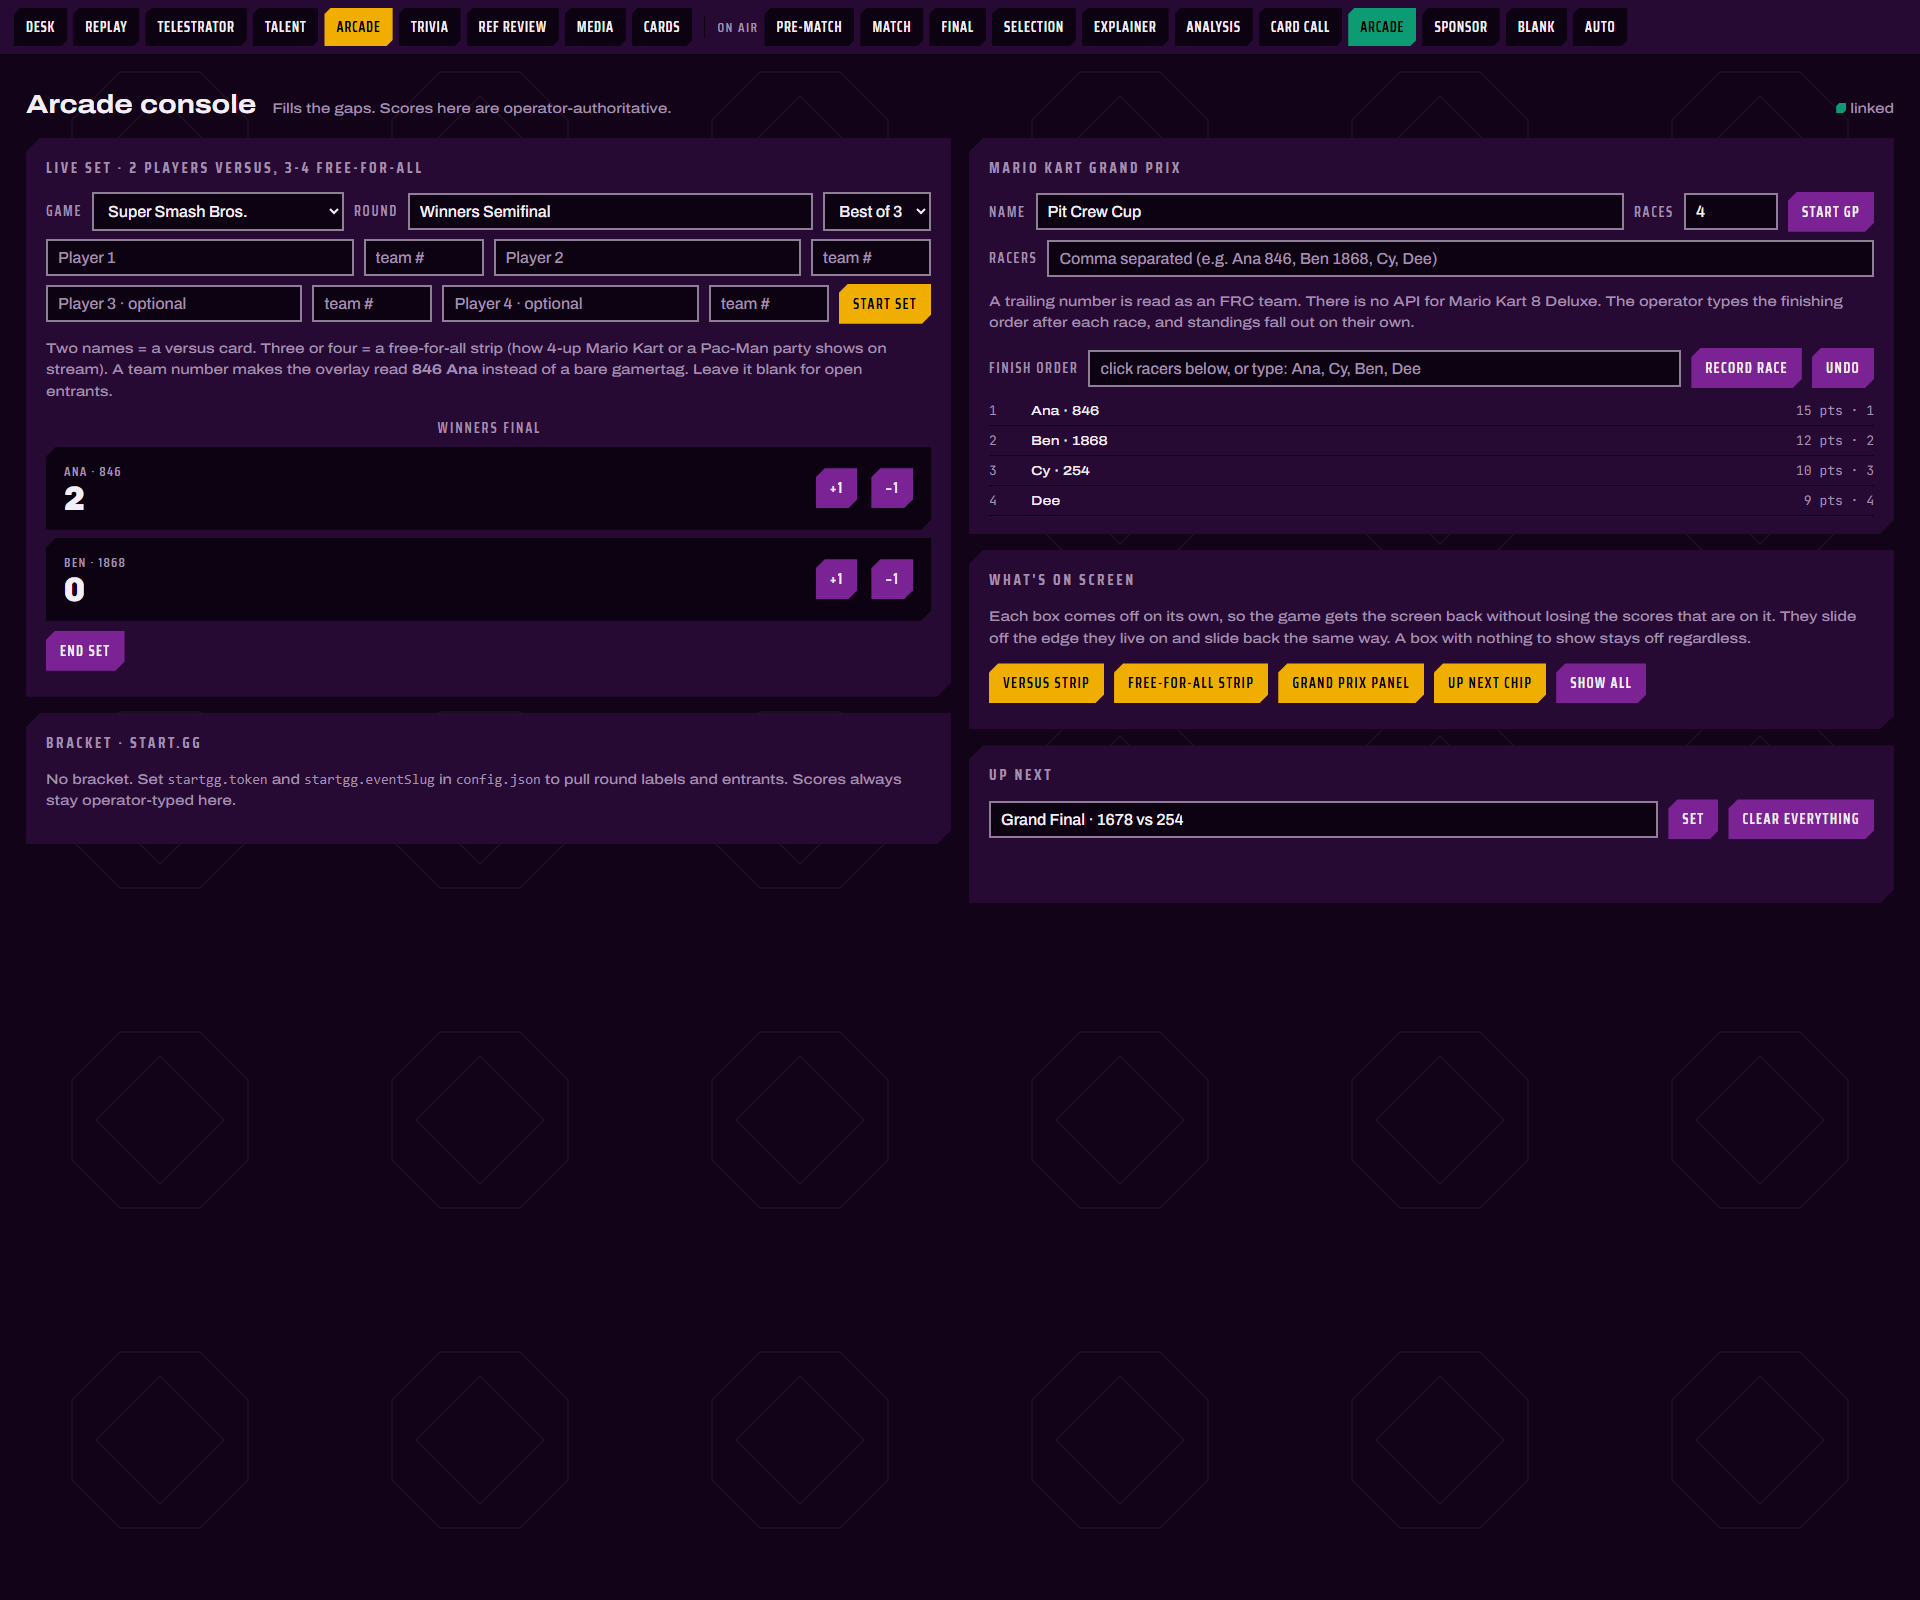
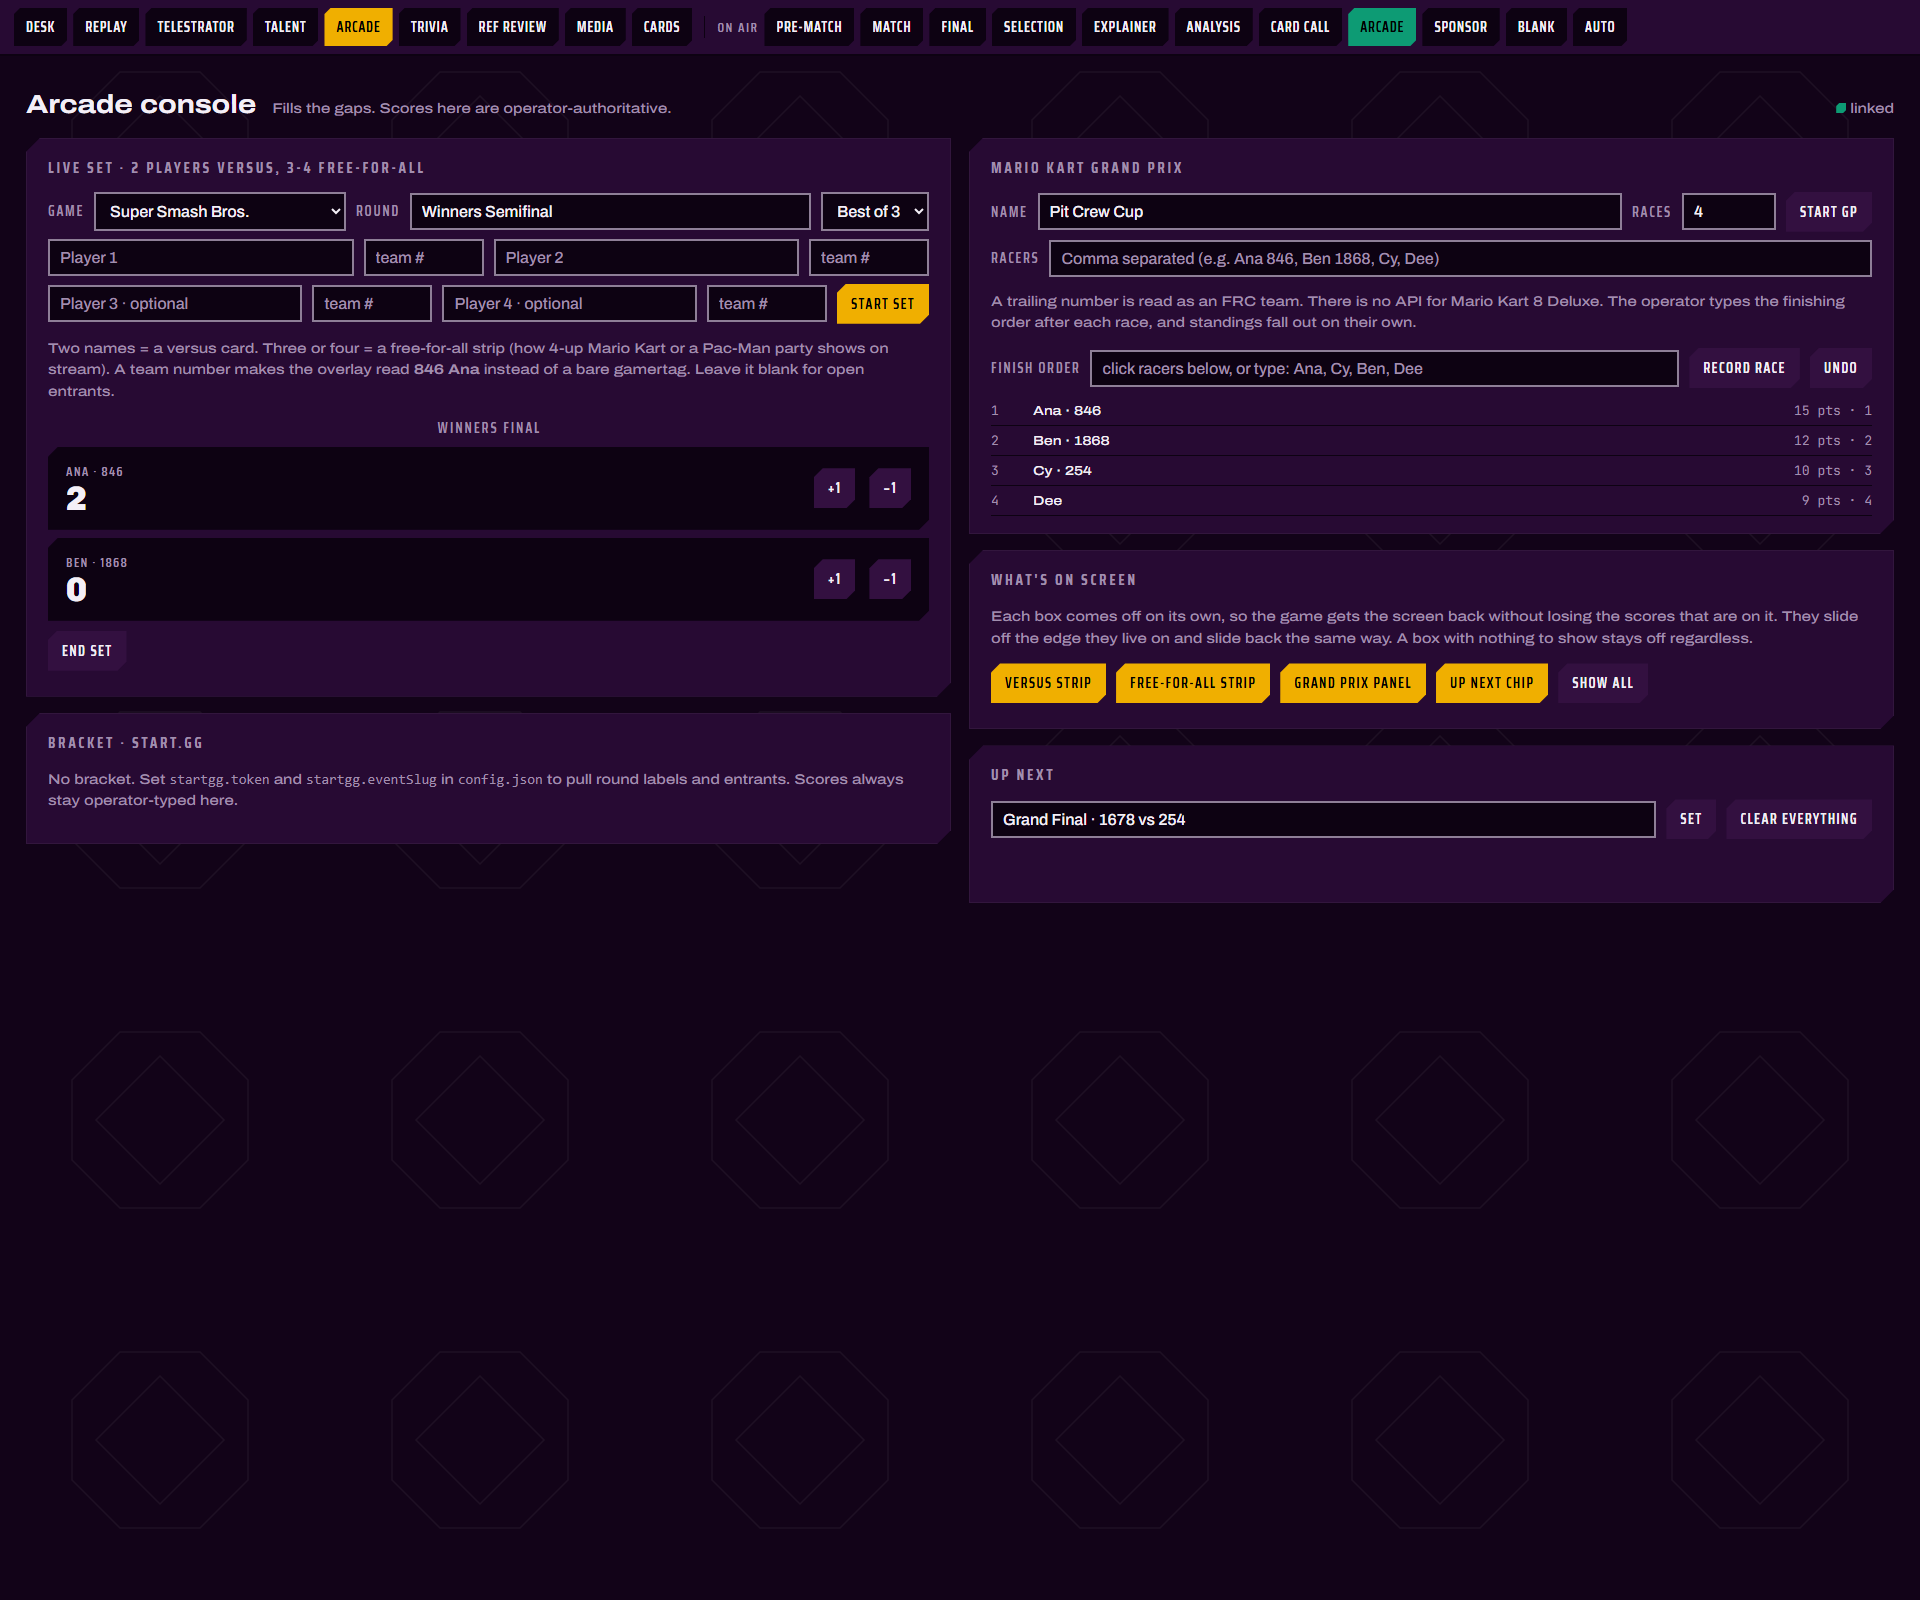
Buttons rest calm and light up on approach; panels get a hairline edge
The premium pass on the console chrome. The default button face was raw
purple-hi, so every secondary control shouted at parity with the gold
primaries, and hover went DARKER, which reads as already-pressed. The
resting face now sits one step above the panel, hover lifts toward the
light, and gold is reserved for primaries, pressed states, and live
chips, which is exactly what makes gold legible as "the one that
matters" on a console with sixty controls.

Sections gain a one-pixel light hairline (the cheapest precision a dark
UI can buy), micro-padding evens out, and operators who ask their OS for
reduced motion get it: console transitions and decorative pulses collapse
to instant, scoped away from the broadcast pages, where motion is
editorial program output.

33 previews re-rendered.

diff --git a/packages/theme/tokens.css b/packages/theme/tokens.css
@@ -230,7 +230,14 @@
   --rule:           3px solid var(--cg-gold);
   --atmo:           none;
   --tex-perf:       radial-gradient(circle at center, rgba(255,255,255,.03) 1.4px, transparent 1.5px);
-  --btn-hover:      #3A1349;
+  /* Buttons rest CALM and light up on approach. The old face was raw
+     purple-hi (#7B2394): every secondary control shouted at parity with the
+     gold primaries, and hover went DARKER, which reads as already-pressed.
+     Resting face sits one step above the panel; hover lifts toward the
+     light; gold stays reserved for primaries and pressed state, which is
+     what makes it legible as "the one that matters". */
+  --btn-face:       #331040;
+  --btn-hover:      #4B1A5E;
   --focus-ring:     var(--cg-gold-hi);
   /* Error text on console purples. Lightened past the official alliance red
      because #ED1C24 reads 4.1:1 on --surface-raised (and only 2.9:1 on brand
@@ -272,9 +279,27 @@
 :root[data-surface="console"] .wrap { padding: 20px 26px 64px; }
 :root[data-surface="console"] .wrap > header { gap: 16px; margin-bottom: 18px; }
 :root[data-surface="console"] h1 { font-size: 26px; }
-:root[data-surface="console"] section { padding: 18px 20px; margin-bottom: 16px; }
+:root[data-surface="console"] section { padding: 18px 22px; margin-bottom: 16px;
+  /* A one-pixel light hairline instead of relying on fill contrast alone:
+     panel edges stay defined even where two purples sit close, and the line
+     is the cheapest kind of precision a dark UI can buy. */
+  box-shadow: inset 0 0 0 1px rgba(255, 255, 255, .05); }
 :root[data-surface="console"] section h2 { margin: 0 0 12px; }
 :root[data-surface="console"] .row { gap: 10px; }
+
+/* Operators who ask their OS for less motion get it: transitions and the
+   console's decorative pulses collapse to instant. Scoped to the consoles
+   because the broadcast pages are program output, where entrance motion is
+   editorial and the viewer's OS preference cannot reach a Browser Source
+   anyway. */
+@media (prefers-reduced-motion: reduce) {
+  :root[data-surface="console"] *,
+  :root[data-surface="console"] *::before,
+  :root[data-surface="console"] *::after {
+    transition-duration: .01ms !important;
+    animation-duration: .01ms !important;
+  }
+}
 
 :root[data-surface="console"] .hint { font-size: 14px; line-height: 1.55; }
 :root[data-surface="console"] section > h2,
